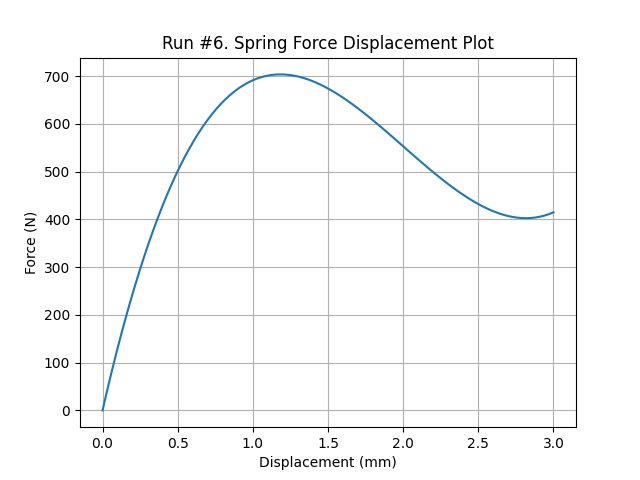
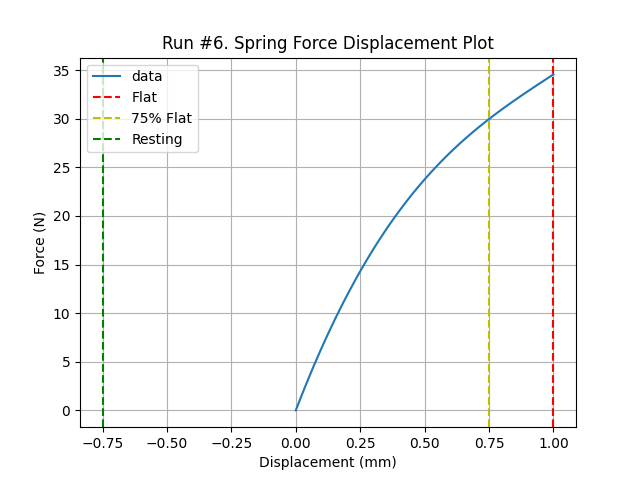
feat: created optimizer

diff --git a/optimizer.py b/optimizer.py
@@ -7,35 +7,52 @@ from scipy.optimize import minimize
 class Optimizer():
     def __init__(self, inital_guess):
         self.inital_guess = inital_guess
-        self.bnds = ((205,205),(116,116),(4,8),(0.3,5),(0.3,5),(210000,210000),(0.3,0.3))
-        self.con1 = {'type': 'ineq', 'fun': self.force_constraint}
-        self.con2 = {'type': 'ineq', 'fun': self.displacement_constraint}
+        self.bnds = ((197,210),(116,140),(5.5,11),(0.5,6))
+        self.con1 = {'type': 'ineq', 'fun': self.stress_constraint}
+        self.con2 = {'type': 'ineq', 'fun': self.curve_constraint}
+        
         self.cons = [self.con1, self.con2]
+        
      
     def objective(self, guess):
+        #Objective: reach target force specified
+        target_force = 3000
+
         spring = DiscSpring(guess)
         max_s = 0.75 * spring.h0
-        max_stress = abs(max(spring.find_stress(max_s)))
+        resting_s = max_s - 1.5
+        brake_force = spring.find_force(resting_s)
 
-        return max_stress
+        return math.sqrt((brake_force - target_force)**2)
 
-    def force_constraint(self, guess):
+    def stress_constraint(self, guess):
+        #Stress: Keep max stresses below the allowable stress in MPa
+        allowable_stress = 600 
+
         spring = DiscSpring(guess)
         max_s = 0.75 * spring.h0
-        max_force = spring.find_force(max_s)
-        desired_force = 3000
+        
+        StressTable = np.zeros([100,5])
+        for i in range(100):
+            StressTable[i] = spring.find_stress(max_s*(i+1)/100)
 
-        return max_s - desired_force
+        max_stress = np.max(StressTable)
 
-    def displacement_constraint(self, guess):
+        return allowable_stress - max_stress
+
+    def curve_constraint(self, guess):
+        #Constrains spring characteristic curve above specified value (h_o/t)
+        min_curve_constant = 1.4
         spring = DiscSpring(guess)
-        max_s = 0.75 * spring.h0
+        curve_constant = spring.h0/spring.t
 
-        return max_s - 4.5
+        return curve_constant - min_curve_constant
 
     def solution(self):
+        #Least Squares Optimizer
         solution = minimize(self.objective, self.inital_guess, method='SLSQP',\
             bounds=self.bnds, constraints=self.cons)
-
+        
+        
         print(solution)
         return solution

diff --git a/main.py b/main.py
@@ -7,30 +7,43 @@ import sys
 
 if __name__ == "__main__":
 
-    Data = pd.read_csv(sys.argv[1])
+    Data = pd.read_csv("spring_input_1.csv")
     Table = Data.values.tolist()
     Columns = Data.columns
 
-    optum =  Optimizer([205,116,8,3,3,210000,3])
-    solution = optum.solution()
-    #solution = optum.brute()
+    # optum =  Optimizer([210,140,8,3])
+    # solution = optum.solution()
 
-    print(solution)
+    # spring = DiscSpring(solution.x)
+    # max_s = 0.75 * spring.h0
+
+    # print("Force:{}".format(spring.find_force(max_s)))
+    # print("Rest-Force:{}".format(spring.find_force(max_s-1.5)))
+    # print("Stress:{}".format(spring.find_stress(max_s)))
+
+    # spring.plot_force(0)
 
 
-    # for i in range(len(Table)):
-    #     spring = DiscSpring(Table[i][0:7])
 
-    #     max_s = 0.75 * spring.h0
+    for i in range(len(Table)):
+        spring = DiscSpring(Table[i][0:6])
 
-    #     Table[i][7] = max_s
-    #     Table[i][8] = spring.find_force(max_s)
-    #     Table[i][9:14] = spring.find_stress(max_s)
+        max_s = 0.75 * spring.h0
 
-    #     spring.plot_force(0,max_s, i)
+        Table[i][6] = max_s
+        Table[i][7] = spring.find_force(max_s)
 
-    # Output = pd.DataFrame(Table, columns=Columns)
-    # Output.to_csv("spring_input.csv", index=False)
+
+        StressTable = np.zeros([100,5])
+        for j in range(100):
+            StressTable[j] = spring.find_stress(max_s*(j+1)/100)
+
+        Table[i][8:13] = list(np.amax(StressTable, axis=0))
+
+        spring.plot_force(i)
+
+    Output = pd.DataFrame(Table, columns=Columns)
+    Output.to_csv("spring_input_1.csv", index=False)
     
 
    

diff --git a/discspring.py b/discspring.py
@@ -1,6 +1,7 @@
 import math
 import numpy as np
 import matplotlib.pyplot as plt
+import matplotlib.patches as mpatches
 
 class DiscSpring:
     #t1 = t'
@@ -9,9 +10,9 @@ class DiscSpring:
         self.D_i = Input[1]
         self.I_o = Input[2]
         self.t = Input[3]
-        self.t1 = Input[4]
-        self.E = Input[5]
-        self.mu = Input[6]
+        self.t1 = self.t
+        self.E = 210000
+        self.mu = 0.3
         self.h0 = self.I_o - self.t
     
         #Formula 1 (Find center of rotation during deflection)
@@ -73,18 +74,24 @@ class DiscSpring:
         B = (self.t**4) / (self.K_1 * self.D_e**2)
         C = s / self.t
         D = (self.h0/self.t) - (s/self.t)
-        E = (self.h0/self.t) - (s/2*self.t)
+        E = (self.h0/self.t) - (s/(2*self.t))
 
         return A*B*C*(D*E + 1)
 
-    def plot_force(self, start, end, number):
-        s = np.linspace(start, end, 100)
+    def plot_force(self, number):
+        s = np.linspace(0, self.h0, 100)
         F = np.zeros(100)
 
         for i in range(len(s)):
             F[i] = self.find_force(s[i])
 
-        plt.plot(s,F)
+        
+        plt.plot(s,F, label='data')
+        plt.axvline(x=self.h0, c='r', ls='--', label='Flat')
+        plt.axvline(x=0.75*self.h0, c='y', ls='--', label='75% Flat')
+        plt.axvline(x=0.75*self.h0 - 1.5, c='g', ls='--', label='Resting')
+        plt.legend(loc="upper left")
+
         plt.xlabel("Displacement (mm)")
         plt.ylabel("Force (N)")
         plt.title("Run #{}. Spring Force Displacement Plot".format(number+1))
